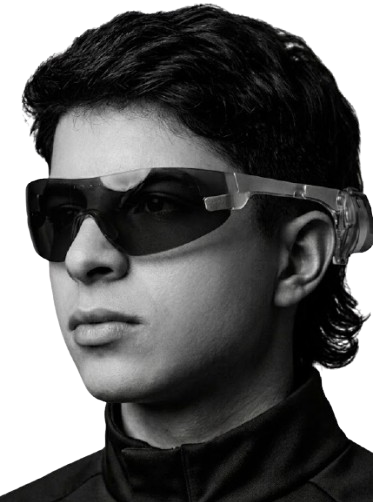
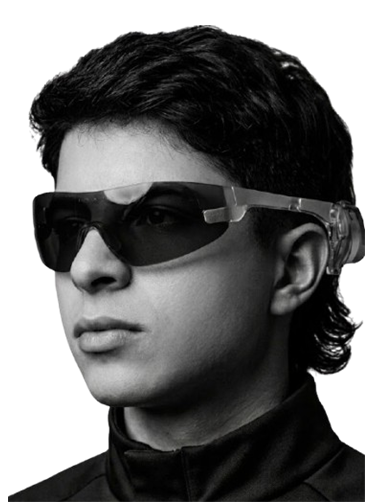
Normalizar imagenes del hero: ambas 373x502 con contenido alineado (rostro en y=25), quitar ajuste JS y cache-busting v4

diff --git a/index.html b/index.html
@@ -595,7 +595,7 @@ textarea.field-input{ resize:none }
   <section class="hero" id="home">
     <div class="liquid" id="liquid">
       <div class="liquid-stage" id="liquidStage">
-        <img class="liquid-base" src="Imagenes/perfil.png?v=3" alt="Juan Esteban Henao" fetchpriority="high" />
+        <img class="liquid-base" src="Imagenes/perfil.png?v=4" alt="Juan Esteban Henao" fetchpriority="high" />
         <canvas class="liquid-canvas" id="liquidCanvas" aria-hidden="true"></canvas>
       </div>
     </div>
@@ -1306,8 +1306,8 @@ setInterval(updateClock, 1000);
   const ctx = canvas.getContext('2d');
 
   // Mapping: base (always visible / LCP) = perfil.png (transparent), brush paint (revealed on hover) = perfilgafas.png (transparent)
-  const beforeSrc = 'Imagenes/perfil.png?v=3';
-  const afterSrc  = 'Imagenes/perfilgafas.png?v=3';
+  const beforeSrc = 'Imagenes/perfil.png?v=4';
+  const afterSrc  = 'Imagenes/perfilgafas.png?v=4';
 
   const BRUSH_RADIUS = 143;
   const DECAY = 0.016;
@@ -1336,10 +1336,8 @@ setInterval(updateClock, 1000);
     const W = cover.width, H = cover.height;
     const s = Math.min(W / img.naturalWidth, H / img.naturalHeight);
     const dw = img.naturalWidth * s, dh = img.naturalHeight * s;
-    // Alinea el rostro de perfilgafas (contenido en y=4) con perfil.png (contenido en y=25)
-    const ALIGN = 21;
     coverCtx.clearRect(0, 0, W, H);
-    coverCtx.drawImage(img, (W - dw) / 2, (H - dh) / 2 + ALIGN * s, dw, dh);
+    coverCtx.drawImage(img, (W - dw) / 2, (H - dh) / 2, dw, dh);
   }
 
   function measure(){
